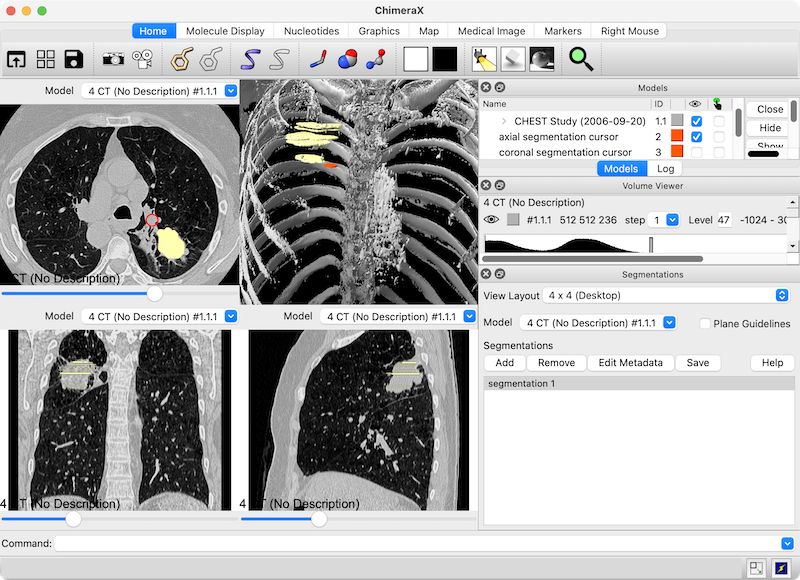
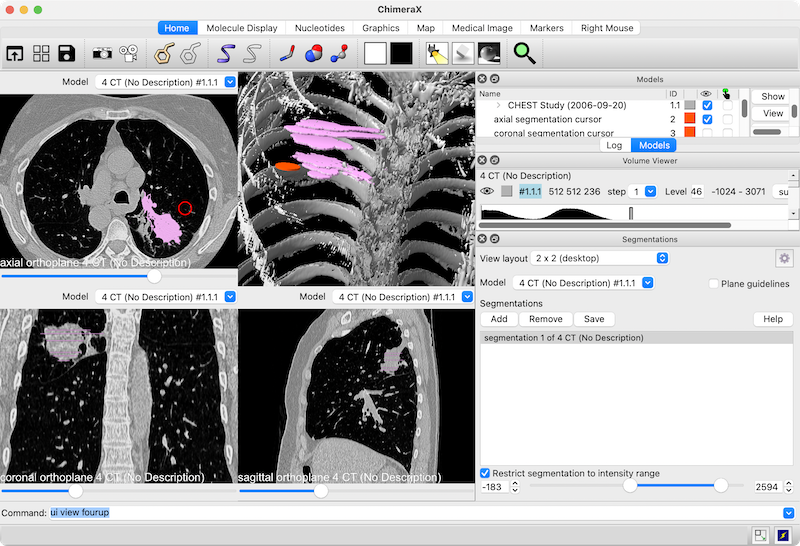
initial docs for Fit Loops, still need to crossref and add the phenix command; corrections to Segmentations as per Zach, plus new figure w/ dialog changes

diff --git a/src/bundles/phenix_ui/src/docs/user/tools/fitloops.html b/src/bundles/phenix_ui/src/docs/user/tools/fitloops.html
@@ -36,11 +36,6 @@ See also:
 <a href="localemfitting.html"><b>Local EM Fitting</b></a>,
 <a href="waterplacement.html"><b>Water Placement</b></a>
 </p><p>
-Although there is no limit on the total number of residues in to model in
-multiple segments, within an individual segment, modeling more than 14
-consecutive residues is not recommended due to reduced reliability,
-and modeling more than 19 is disallowed.
-</p><p>
 <a href="https://phenix-online.org" target="_blank">Phenix</a>
 must be installed locally and the <b>PhenixUI</b> bundle installed in ChimeraX.
 The program location can be specified (saved in
@@ -53,7 +48,6 @@ and on Mac only, if none is found there, then in the system
 </p><p>
 <b>Fit Loops</b> 
 can be started from the <b>Phenix</b> section of the <b>Tools</b> menu.
-</p><p>
 The existing atomic <b>Structure</b> and the <b>Map</b> to use should
 already be open in ChimeraX and chosen from the menus of available models; 
 other maps and atomic structures may also be present.
@@ -61,22 +55,31 @@ other maps and atomic structures may also be present.
 The peptide segments to build or rebuild are specified by
 <a href="../selection.html">selection</a>. 
 The residues of interest can be <a href="../selection.html">selected</a>
-using any method (menu, command, mouse). 
+using any method (menu, command, mouseclick
+in the graphics window, the <b>Gaps</b> table mentioned below, <i>etc.</i>).
 The residues in a missing segment or gap can be specified by selecting the 
 corresponding missing-structure <a href="../pseudobonds.html">pseudobond</a>.
 </p><p>
+Although there is no limit on the total number of residues to model
+in multiple segments, within an individual segment,
+<font color="#DB7600">modeling &ge;15 consecutive residues is not
+recommended</font> (is more likely to give poor results)
+and <font color="red">modeling &ge;20 is disallowed</font>.
+</p><p>
 A table of the <b>Gaps</b> in the chosen structure is provided for convenience
 if the goal is to fill in a missing segment, but it need not be used if
-some other way of selecting is preferred. Clicking an entry in the table
-zooms in on the corresponding region and selects the 
-missing-structure <a href="../pseudobonds.html">pseudobond</a>.
+some other <a href="../selection.html">selection</a> method is preferred.
+Clicking an entry in the table zooms in on the corresponding region 
+and selects the missing-structure <a href="../pseudobonds.html">pseudobond</a>.
 Only one entry can be chosen at a time. <b>Also select <i>N</i> residues
 on each side of gap</b> allows specifying how many residues on either side of
-the gap to include in the newly built portion. These end residues are included
-in the count of consecutive residues modeled, and the <b>Gap length</b> entries
-will be shown in <font color="red">red</font> when the total is too long to 
-model (disallowed) or in <font color="orange">orange</font> if not disallowed
-but still longer than recommended.
+the gap to include in the newly built portion. These end residues are also
+<a href="../selection.html">selected</a> when an entry in the table is chosen,
+and they are included in the count of consecutive residues to be modeled. 
+Accordingly, the <b>Gap length</b> values in the table will be shown in 
+<font color="red">red</font> when the total length (including the end residues)
+is too great to model (disallowed), or in 
+<font color="#DB7600">orange</font> if allowed but greater than recommended.
 </p><p>
 Clicking <b>Apply</b> (or <b>OK</b>, which also dismisses the dialog)
 starts the calculation.

diff --git a/docs/user/tools/segmentations.html b/docs/user/tools/segmentations.html
@@ -39,7 +39,8 @@ axial slices segmented</font>
 <p>
 The <b>Segmentations</b> tool allows interactive manual segmentation
 of medical images and other <a href="volumeviewer.html">volume data</a>
-plane by plane.
+plane by plane, or with a spherical cursor in the 3D view or in
+<a href="../vr.html">virtual reality</a>.
 Segmentations are additional volume models displayed as surfaces that
 delineate regions of arbitrary shape within the image dataset; 
 for medical images,
@@ -128,17 +129,15 @@ Clicking <b>Add</b> creates a new segmentation model, and any
 segmentation in the list can be can be chosen (highlighted) with the mouse.
 The currently highlighted segmentation is the one that will be populated
 using the segmentation cursor in the slice views. 
-See <a href="../commands/dicom.html#navigation">slice navigation</a>
+See <a href="../commands/ui.html#navigation">slice navigation</a>
 for how to scroll through, zoom, and translate the slice views.
-</p><p>
-Clicking <b>Remove</b> deletes the chosen segmentation.
-<b>Edit Metadata</b> allows
-editing the metadata associated with the segmentation model, and <b>Save</b>
-brings up a file-saving dialog. If the <a href="../dicom/dicom.html">DICOM</a>
+Clicking <b>Remove</b> deletes the chosen segmentation, whereas
+<b>Save</b> brings up a dialog for saving the segmentation to a file.
+If the <a href="../dicom/dicom.html">DICOM</a>
 file type is chosen, the segmentation is saved as the SEG modality with 
 the associated metadata, if any. Other medical-image formats
 (<a href="https://nifti.nimh.nih.gov/" target="_blank"><b>NIfTI</b></a>,
-<a href="https://teem.sourceforge.net/nrrd/" target="_blank"><b>NRRD</b></a>
+<a href="https://teem.sourceforge.net/nrrd/" target="_blank"><b>NRRD</b></a>)
 will not include the metadata.
 </p><p>
 In the slice views, the segmentation cursor is shown as a red circle; 

diff --git a/docs/user/index.html b/docs/user/index.html
@@ -171,7 +171,9 @@ with colors, atomic radii, or worms, or
 <li><a href="tools/scalebar.html"><b>Scale Bar</b></a></li>
 <li><a href="tools/segment.html"><b>Segment Map</b></a></li>
 <li><a href="tools/segmentations.html"><b>Segmentations</b></a>
-&ndash; manually segment medical image or other map data plane by plane</li>
+&ndash; manually segment medical image or other map data plane by plane,
+or with a spherical cursor in the 3D view or in
+<a href="../vr.html">virtual reality</a></li>
 <li><a href="tools/inspector.html"><b>Selection Inspector</b></a>
 <img class="icon" src="tools/toolbar-icons/magnifying-glass.png">
 &ndash; view/modify <a href="attributes.html">attributes</a> of the current 
